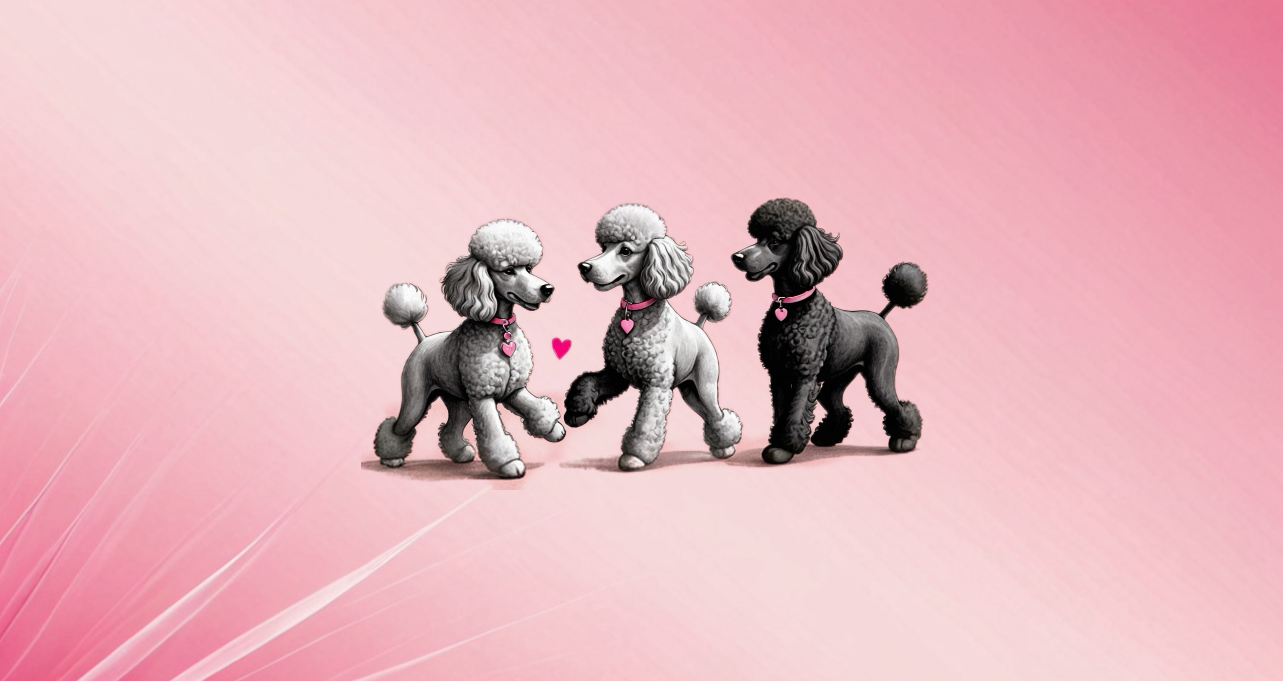
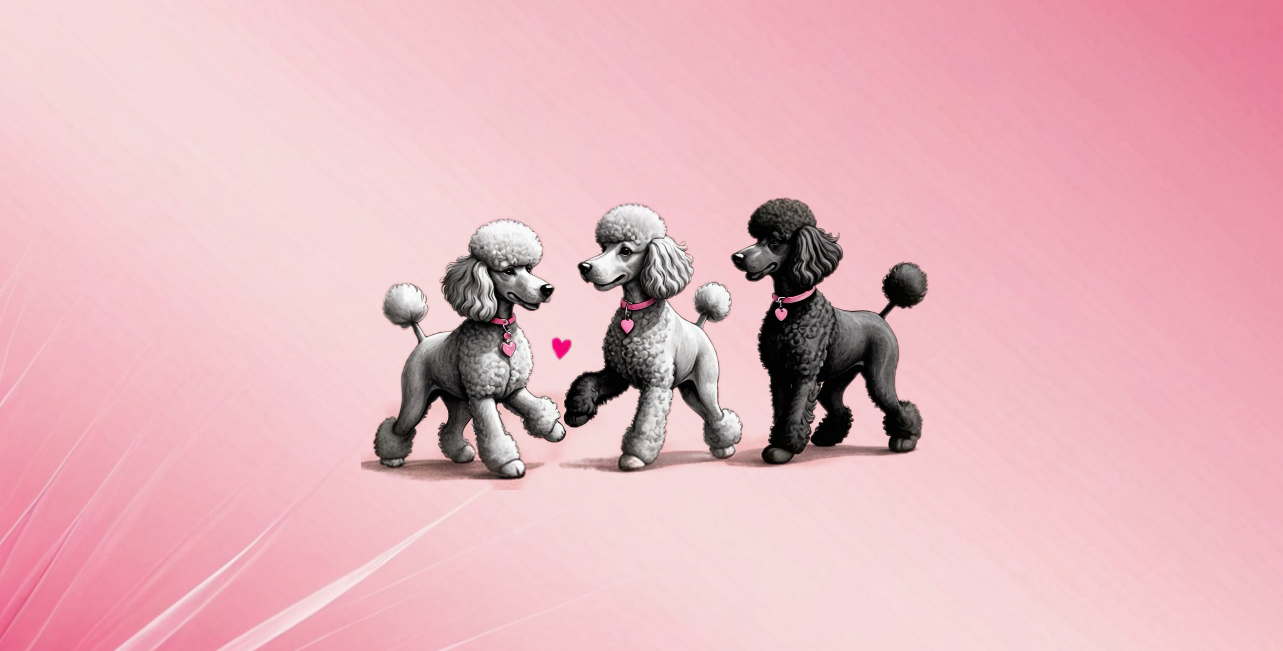
updates theme

diff --git a/src/styles/theme.js b/src/styles/theme.js
@@ -2,7 +2,7 @@
 import HeroImage1 from "../assets/images/background-dogs-purple.jpg";
 import HeroImage2 from "../assets/images/background-pink.jpg";
 import HeroImage3 from "../assets/images/background-dogs-pastelle.jpg";
-import HeroImage4 from "../assets/images/background-pink&purple.jpg";
+import HeroImage4 from "../assets/images/background-dogs-pink2.jpg";
 import HeroImage5 from "../assets/images/background-blue.jpg";
 import HeroImage6 from "../assets/images/background-dogs-pink.jpeg";
 import HeroImage7 from "../assets/images/background-red.jpg";
@@ -28,7 +28,7 @@ export const theme = {
     fonts: {
       body: "Montserrat, sans-serif",
       heading: "Merriweather, serif",
-      accent: "'Great Vibes', cursive",
+      accent: "'Pinyon Script', cursive",
     },
     shadows: {
       boxShadow: "0px 4px 6px rgba(0, 0, 0, 0.1)",
@@ -64,13 +64,13 @@ export const theme = {
   version3: {
     name: "Myk Beige",
     colors: {
-      primary: "#705D56",
-      secondary: "#9E8B69",
+      primary: "#252015",
+      secondary: "#3e3e3e",
       accent: "#A68B6E",
       accentTransparent: "rgba(166, 139, 110, 0.8)",
       white: "#FFFFFF",
       background: "#F9F9F9",
-      text: "#333333",
+      text: "#3e3e3e",
       title: "#E07A5F",
     },
     fonts: {
@@ -90,7 +90,7 @@ export const theme = {
     colors: {
       primary: "#725A7A",
       secondary: "#9F7D94",
-      accent: "#B088A3",
+      accent: "#cc9fbd",
       accentTransparent: "rgba(176, 136, 163, 0.8)",
       white: "#FFFFFF",
       background: "#F9F9F9",
@@ -100,13 +100,13 @@ export const theme = {
     fonts: {
       body: "Raleway, sans-serif",
       heading: "Playfair Display, serif",
-      accent: "'Pinyon Script', cursive",
+      accent: "'Great Vibes', cursive",
     },
     shadows: {
       boxShadow: "0px 4px 6px rgba(0, 0, 0, 0.1)",
-      textShadow: "1px 1px 2px rgba(0, 0, 0, 0.4)",
+      textShadow: "0px 0px 1px rgba(0, 0, 0, 0.4)",
     },
-    heroImage: HeroImage4,
+    heroImage: HeroImage6,
   },
 
   version5: {
@@ -117,7 +117,7 @@ export const theme = {
       accent: "#98C1D9",
       accentTransparent: "rgba(152, 193, 217, 0.8)",
       white: "#FFFFFF",
-      background: "#F9F9F9",
+      background: "#dde6ed",
       text: "#293241",
       title: "#EE6C4D",
     },
@@ -134,7 +134,7 @@ export const theme = {
   },
 
   version6: {
-    name: "Vintage Blomster",
+    name: "Vintage rosa",
     colors: {
       primary: "#6C4F77",
       secondary: "#A8849F",
@@ -154,7 +154,7 @@ export const theme = {
       boxShadow: "0px 4px 6px rgba(0, 0, 0, 0.1)",
       textShadow: "1px 1px 2px rgba(0, 0, 0, 0.4)",
     },
-    heroImage: HeroImage6,
+    heroImage: HeroImage4,
   },
 
   version7: {
@@ -166,7 +166,7 @@ export const theme = {
       accentTransparent: "rgba(211, 47, 47, 0.8)",
       white: "#FFFFFF",
       background: "#F9F9F9",
-      text: "#4B4B4B",
+      text: "#FF8080",
       title: "#B71C1C",
     },
     fonts: {

diff --git a/src/App.jsx b/src/App.jsx
@@ -18,7 +18,7 @@ import GalleryDetail from "./pages/GalleryDetail";
 
 const App = () => {
   // Starter med første tema som default
-  const [currentTheme, setCurrentTheme] = useState(theme.version1);
+  const [currentTheme, setCurrentTheme] = useState(theme.version4);
 
   return (
     <ThemeProvider theme={currentTheme}>
